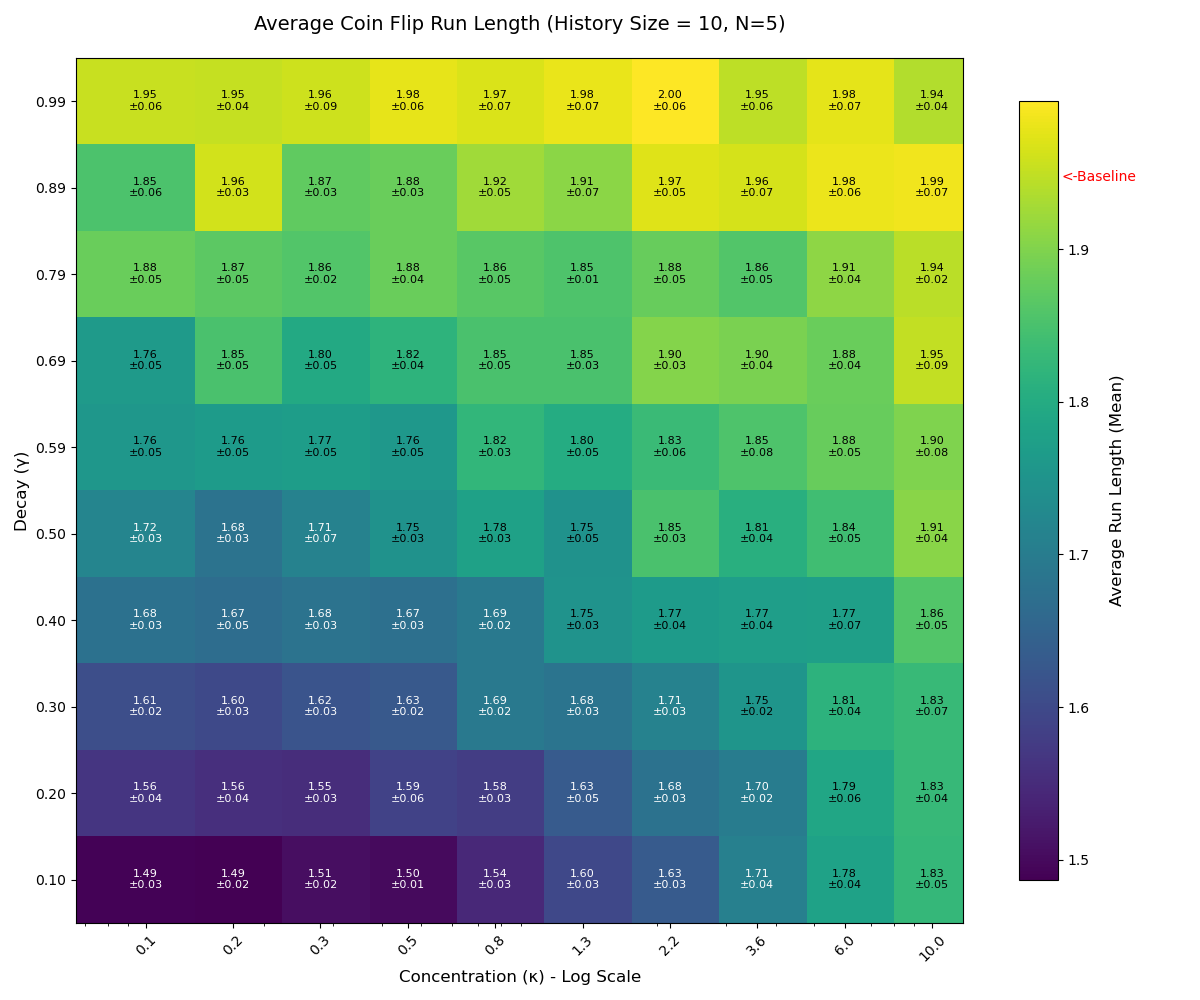
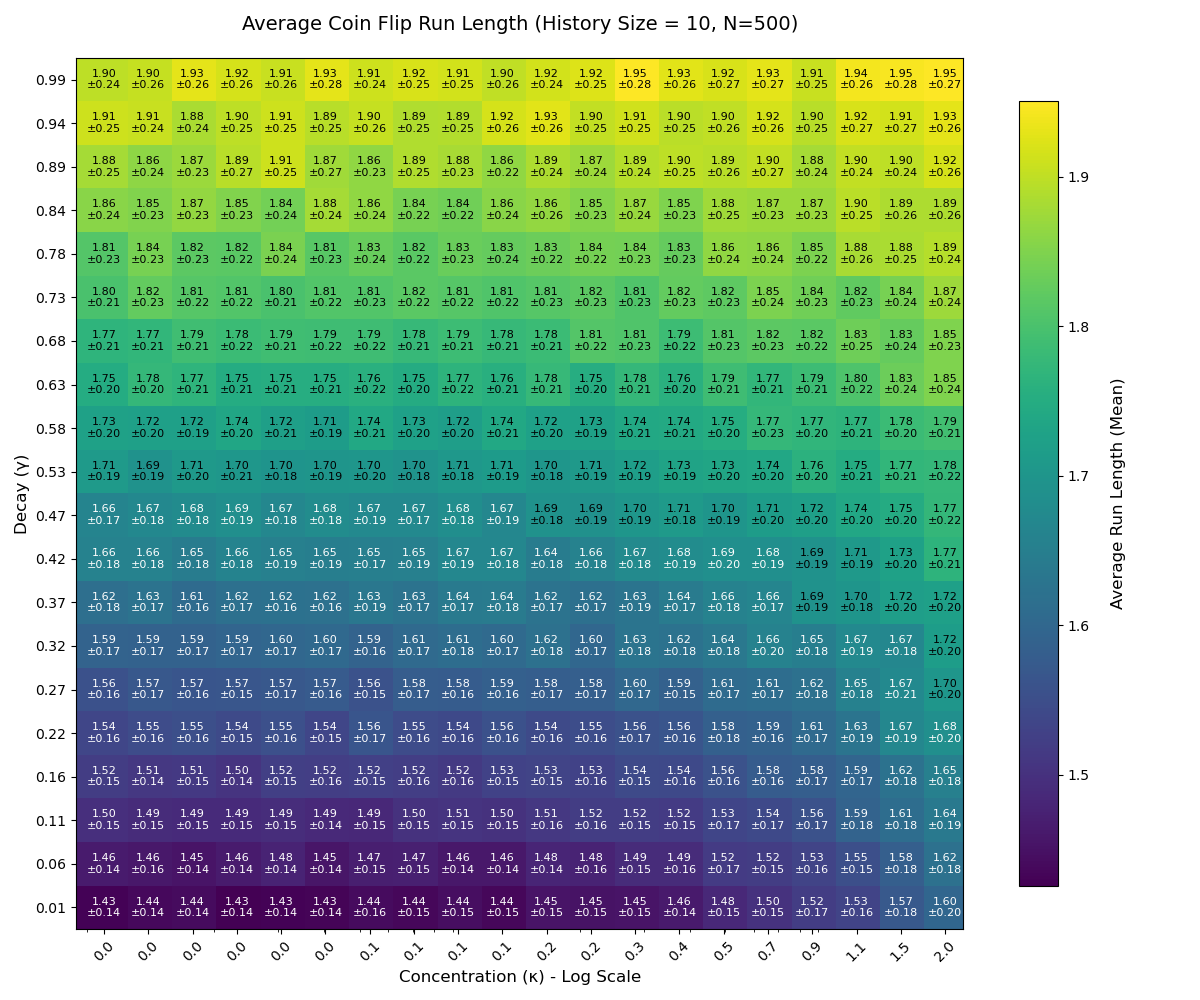
update: grid search result for repulsive rng parameter

diff --git a/utils/RNG.py b/utils/RNG.py
@@ -3,7 +3,9 @@ from scipy.stats import qmc
 import hashlib
 import pickle
 from scipy.special import i0
-import Config
+# import Config
+class Config:
+    RANDOMSEED = 42
 from collections import deque
 
 master_rng = np.random.default_rng(Config.RANDOMSEED)
@@ -142,7 +144,7 @@ class NumberGenerator:
             # giving each one its own independent child RNG.
             self._generators = [
                 RepulsivePRNG(
-                    history_size=kwargs.get('history_size', 5),
+                    history_size=kwargs.get('history_size', 15),
                     concentration=kwargs.get('concentration', 0.5),
                     decay=kwargs.get('decay', 0.5),
                     rng_instance=rng
@@ -181,112 +183,180 @@ if __name__ == '__main__':
         return Counter(run_lengths)
     
     # --- Tunable Parameters ---
-    N_SAMPLES = 1000      # Number of samples per measurement
-    STREAM_ID = 0         # Which random stream to use for all tests
-    N_MEASURE = 5         # Number of independent measurements for each parameter set
+    N_SAMPLES = 50        # Number of samples per measurement
+    STREAM_ID = 0          # Which random stream to use for all tests
+    N_MEASURE = 500        # Number of independent measurements for each parameter set
 
     # --- 1. Define the Grid Search Parameters ---
     history_sizes = [5, 10, 15]
-    # CHANGED: Use a logarithmic scale for concentration for better parameter exploration
-    concentration_values = np.logspace(np.log10(0.1), np.log10(10.0), 10)
-    decay_values = np.linspace(0.1, 0.99, 10)
+    concentration_values = np.logspace(np.log10(0.01), np.log10(2.0), 20)
+    decay_values = np.linspace(0.01, 0.99, 20)
 
-    # Store results in numpy arrays for mean and standard deviation
+    # Store results for both metrics
     results_mean = {hs: np.zeros((len(concentration_values), len(decay_values))) for hs in history_sizes}
     results_std = {hs: np.zeros((len(concentration_values), len(decay_values))) for hs in history_sizes}
+    drift_results_mean = {hs: np.zeros((len(concentration_values), len(decay_values))) for hs in history_sizes}
+    drift_results_std = {hs: np.zeros((len(concentration_values), len(decay_values))) for hs in history_sizes}
 
     # --- 2. Run the Baseline 'Default' Generator multiple times ---
     print(f"Running {N_MEASURE} baseline measurements...")
-    baseline_measurements = []
+    baseline_run_measurements = []
+    baseline_drift_measurements = []
     for _ in range(N_MEASURE):
         default_gen = NumberGenerator(generator_type='default')
         default_values = [default_gen.random_from_stream(STREAM_ID) for _ in range(N_SAMPLES)]
         default_flips = ['P' if v > 0.5 else 'b' for v in default_values]
+        
+        # Metric 1: Run Length
         default_run_dist = analyze_runs(default_flips)
-        baseline_measurements.append(N_SAMPLES / sum(default_run_dist.values()))
+        baseline_run_measurements.append(N_SAMPLES / sum(default_run_dist.values()))
 
-    baseline_avg_run_length = np.mean(baseline_measurements)
-    baseline_std_run_length = np.std(baseline_measurements)
+        # Metric 2: Total Drift
+        num_heads = default_flips.count('P')
+        num_tails = default_flips.count('b')
+        drift = abs(num_heads - num_tails)
+        baseline_drift_measurements.append(drift)
+
+    baseline_avg_run_length = np.mean(baseline_run_measurements)
+    baseline_std_run_length = np.std(baseline_run_measurements)
     print(f"Baseline (Default RNG) Average Run Length: {baseline_avg_run_length:.3f} ± {baseline_std_run_length:.3f}")
+    
+    baseline_avg_drift = np.mean(baseline_drift_measurements)
+    baseline_std_drift = np.std(baseline_drift_measurements)
+    print(f"Baseline (Default RNG) Average Drift |H-T|: {baseline_avg_drift:.3f} ± {baseline_std_drift:.3f}")
 
     # --- 3. Perform the Grid Search with multiple measurements ---
     for hs in history_sizes:
         print(f"\nProcessing History Size: {hs}...")
         for i, conc in enumerate(concentration_values):
             for j, dec in enumerate(decay_values):
-                measurements = []
+                run_measurements = []
+                drift_measurements = []
                 for k in range(N_MEASURE):
                     params = {'history_size': hs, 'concentration': conc, 'decay': dec}
                     gen = NumberGenerator(generator_type='repulsive', dimension=1, **params)
 
                     values = [gen.random_from_stream(STREAM_ID) for _ in range(N_SAMPLES)]
-                    coin_flips = ['P' if v > 0.5 else 'b' for v in values]
+                    coin_flips = ['P'if v > 0.5 else'b'for v in values]
+                    
+                    # --- Metric 1: Average Run Length ---
                     run_distribution = analyze_runs(coin_flips)
-
                     total_runs = sum(run_distribution.values())
                     avg_run_length = N_SAMPLES / total_runs if total_runs > 0 else 0
-                    measurements.append(avg_run_length)
+                    run_measurements.append(avg_run_length)
 
-                results_mean[hs][i, j] = np.mean(measurements)
-                results_std[hs][i, j] = np.std(measurements)
+                    # --- Metric 2: Total Drift ---
+                    num_heads = coin_flips.count('P')
+                    num_tails = coin_flips.count('b')
+                    drift = abs(num_heads - num_tails)
+                    drift_measurements.append(drift)
 
-    # --- 4. Visualize the Results with a proper Log Scale Axis ---
-    print("\nGenerating visualizations...")
+                # Store results for run length
+                results_mean[hs][i, j] = np.mean(run_measurements)
+                results_std[hs][i, j] = np.std(run_measurements)
+
+                # Store results for drift
+                drift_results_mean[hs][i, j] = np.mean(drift_measurements)
+                drift_results_std[hs][i, j] = np.std(drift_measurements)
+
+    # --- 4. Visualize the Run Length Results ---
+    print("\nGenerating run length visualizations...")
     for hs in history_sizes:
         fig, ax = plt.subplots(figsize=(12, 10))
 
         data_mean = results_mean[hs]
         data_std = results_std[hs]
 
-        # Create meshgrid for pcolormesh
-        # These represent the coordinates of the center of each cell
         X, Y = np.meshgrid(concentration_values, decay_values)
-
-        # FIXED: Use pcolormesh instead of imshow for non-uniform coordinates
-        # shading='auto' allows pcolormesh to determine the cell boundaries
         im = ax.pcolormesh(X, Y, data_mean.T, cmap='viridis', shading='auto')
-
-        # FIXED: Set the x-axis to a logarithmic scale
         ax.set_xscale('log')
 
-        # Add a colorbar
         cbar = fig.colorbar(im, ax=ax, pad=0.05, shrink=0.9)
         cbar.set_label('Average Run Length (Mean)', fontsize=12, labelpad=15)
 
-        # Add a dashed line to the colorbar for the baseline
         vmin, vmax = im.get_clim()
         norm_baseline = (baseline_avg_run_length - vmin) / (vmax - vmin)
         if 0 <= norm_baseline <= 1:
             cbar.ax.plot([0, 1], [norm_baseline, norm_baseline], color='red', linestyle='--', linewidth=3)
             cbar.ax.text(1.1, norm_baseline, '<-Baseline', color='red', ha='left', va='center', fontsize=10, transform=cbar.ax.transAxes)
 
-        # Add text annotations for mean ± std deviation to each cell
         for i in range(len(concentration_values)):
             for j in range(len(decay_values)):
                 mean_val = data_mean[i, j]
                 std_val = data_std[i, j]
                 text_content = f"{mean_val:.2f}\n±{std_val:.2f}"
-
                 bg_color_val_norm = (mean_val - vmin) / (vmax - vmin)
                 text_color = "white" if bg_color_val_norm < 0.5 else "black"
-
                 ax.text(concentration_values[i], decay_values[j], text_content, ha="center", va="center", color=text_color, fontsize=8)
 
         ax.set_xlabel('Concentration (κ) - Log Scale', fontsize=12)
         ax.set_ylabel('Decay (γ)', fontsize=12)
         ax.set_title(f'Average Coin Flip Run Length (History Size = {hs}, N={N_MEASURE})', fontsize=14, pad=20)
+        ax.set_xticks(concentration_values)
+        ax.set_xticklabels([f'{v:.1f}' for v in concentration_values], rotation=45)
+        ax.set_yticks(decay_values)
+        ax.set_yticklabels([f'{v:.2f}' for v in decay_values])
+        
+        plt.tight_layout()
+        plt.savefig(f'grid_search_annotated_log_history_size_{hs}.png')
+        plt.close(fig)
 
-        # Set ticks to match the grid cell centers
-        # For a log scale, it's often better to let Matplotlib decide the major ticks
-        # or use a LogFormatter, but for this grid, explicitly setting them is fine.
+    print("Run length visualization complete. Check for 'grid_search_annotated_log_history_size_*.png' files.")
+
+    # --- 5. Visualize the Drift Results ---
+    print("\nGenerating drift visualizations...")
+
+    global_vmin = baseline_avg_drift
+    global_vmax = baseline_avg_drift
+    for hs in history_sizes:
+        min_val = np.min(drift_results_mean[hs])
+        max_val = np.max(drift_results_mean[hs])
+        if min_val < global_vmin:
+            global_vmin = min_val
+        if max_val > global_vmax:
+            global_vmax = max_val
+
+    for hs in history_sizes:
+        fig, ax = plt.subplots(figsize=(12, 10))
+
+        data_mean = drift_results_mean[hs]
+        data_std = drift_results_std[hs]
+
+        X, Y = np.meshgrid(concentration_values, decay_values)
+        
+        # Use the pre-calculated global vmin/vmax to ensure consistent color scales
+        im = ax.pcolormesh(X, Y, data_mean.T, cmap='cividis', shading='auto', vmin=global_vmin, vmax=global_vmax)
+        ax.set_xscale('log')
+
+        cbar = fig.colorbar(im, ax=ax, pad=0.05, shrink=0.9)
+        cbar.set_label('Average Total Drift |Heads-Tails| (Mean)', fontsize=12, labelpad=15)
+
+        # Now that vmin/vmax are fixed, the baseline will always be in range.
+        norm_baseline = (baseline_avg_drift - global_vmin) / (global_vmax - global_vmin)
+        cbar.ax.plot([0, 1], [norm_baseline, norm_baseline], color='red', linestyle='--', linewidth=3)
+        cbar.ax.text(1.1, norm_baseline, '<-Baseline', color='red', ha='left', va='center', fontsize=10, transform=cbar.ax.transAxes)
+
+        # Add text annotations for mean ± std deviation to each cell
+        for i in range(len(concentration_values)):
+            for j in range(len(decay_values)):
+                mean_val = data_mean[i, j]
+                std_val = data_std[i, j]
+                text_content = f"{mean_val:.1f}\n±{std_val:.1f}"
+
+                bg_color_val_norm = (mean_val - global_vmin) / (global_vmax - global_vmin)
+                text_color = "white" if bg_color_val_norm < 0.5 else "black"
+                ax.text(concentration_values[i], decay_values[j], text_content, ha="center", va="center", color=text_color, fontsize=8)
+
+        ax.set_xlabel('Concentration (κ) - Log Scale', fontsize=12)
+        ax.set_ylabel('Decay (γ)', fontsize=12)
+        ax.set_title(f'Average Total Drift |Heads-Tails| (History Size = {hs}, N={N_MEASURE})', fontsize=14, pad=20)
         ax.set_xticks(concentration_values)
         ax.set_xticklabels([f'{v:.1f}' for v in concentration_values], rotation=45)
         ax.set_yticks(decay_values)
         ax.set_yticklabels([f'{v:.2f}' for v in decay_values])
 
-
         plt.tight_layout()
-        plt.savefig(f'grid_search_annotated_log_history_size_{hs}.png')
+        plt.savefig(f'grid_search_drift_log_history_size_{hs}.png')
         plt.close(fig)
 
-    print("Visualization complete. Check for 'grid_search_annotated_log_history_size_*.png' files.")
+    print("Drift visualization complete. Check for 'grid_search_drift_log_history_size_*.png' files.")
